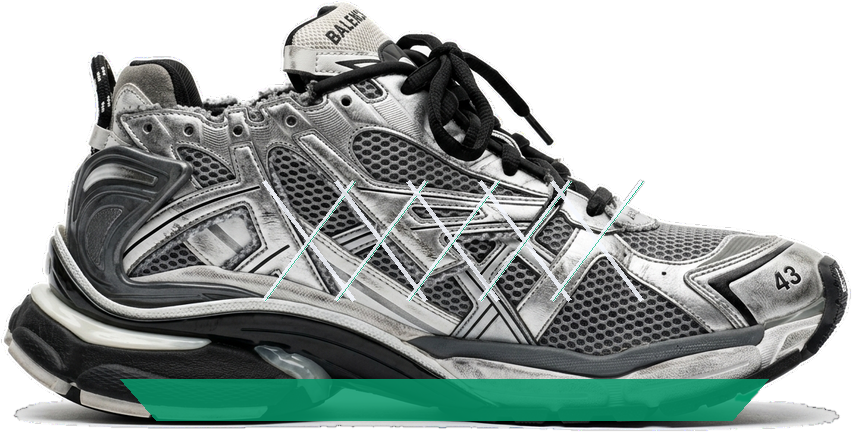
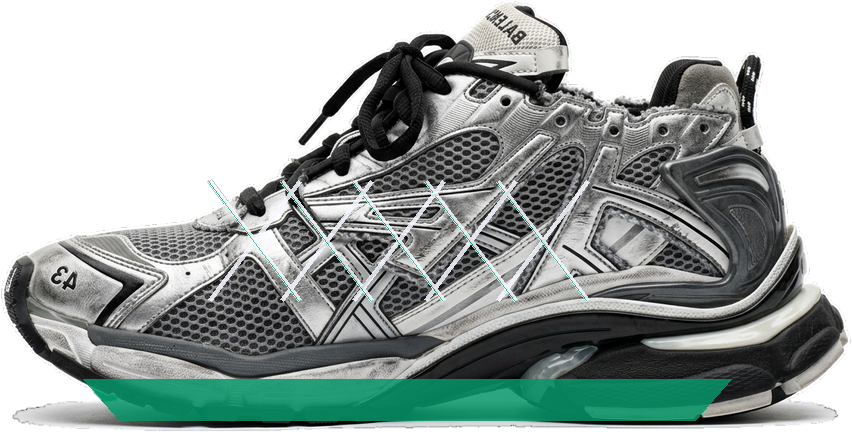
fix(atelier): resolve 360 turntable 180-deg jumping, add dedicated photographic toe & aerial insole renders for all 6 models, and fix ground contact shadow 3D physics

diff --git a/index.html b/index.html
@@ -6565,12 +6565,12 @@
       // Genuine Ultra-High-Resolution Studio Cutout Perspectives
       // ----------------------------------------------------
       const PRELOAD_SNEAKER_ASSETS = [
-        "balenciaga_front3q.png", "balenciaga_heel.png", "balenciaga_profile.png",
-        "bottega_front3q.png", "bottega_heel.png", "bottega_profile.png",
-        "margiela_front3q.png", "margiela_heel.png", "margiela_profile.png",
-        "off_white_front3q.png", "off_white_heel.png", "off_white_profile.png",
+        "balenciaga_front3q.png", "balenciaga_heel.png", "balenciaga_profile.png", "balenciaga_toe.png", "balenciaga_top.png",
+        "bottega_front3q.png", "bottega_heel.png", "bottega_profile.png", "bottega_toe.png", "bottega_top.png",
+        "margiela_front3q.png", "margiela_heel.png", "margiela_profile.png", "margiela_toe.png", "margiela_top.png",
+        "off_white_front3q.png", "off_white_heel.png", "off_white_profile.png", "off_white_toe.png", "off_white_top.png",
         "palm_angels_front3q.png", "palm_angels_heel.png", "palm_angels_profile.png", "palm_angels_toe.png", "palm_angels_top.png",
-        "rick_owens_front3q.png", "rick_owens_heel.png", "rick_owens_profile.png"
+        "rick_owens_front3q.png", "rick_owens_heel.png", "rick_owens_profile.png", "rick_owens_toe.png", "rick_owens_top.png"
       ];
       try {
         PRELOAD_SNEAKER_ASSETS.forEach(imgFile => {
@@ -6587,7 +6587,8 @@
         let angleName = "PROFILE";
 
         if (isAerial) {
-          filename = (sneaker.id === "palm-angels") ? `${pfx}_top.png` : `${pfx}_front3q.png`;
+          // Direct Aerial Insole Perspective
+          filename = `${pfx}_top.png`;
           angleName = "AERIAL LACE";
         } else if (norm >= 235 && norm <= 295) {
           // 270° Direct Heel / Back View (Exact match to reference videoframe_11402.png for Palm Angels)
@@ -6595,7 +6596,7 @@
           angleName = "HEEL ARCHIVE (REF)";
         } else if (norm >= 68 && norm <= 112) {
           // 90° Direct Toe
-          filename = (sneaker.id === "palm-angels") ? `${pfx}_toe.png` : `${pfx}_front3q.png`;
+          filename = `${pfx}_toe.png`;
           angleName = "DIRECT TOE";
         } else if (norm >= 23 && norm <= 67) {
           // 45° 3/4 Front
@@ -6696,8 +6697,18 @@
           renderBox.style.transform = "scale(" + zoomScale + ") rotateY(" + rotY + "deg)";
         }
         if (groundShadow) {
-          const shadowScale = isAerialView ? 1.1 : (0.85 + Math.abs(Math.sin(normAngle * Math.PI / 180)) * 0.25);
-          groundShadow.style.transform = "scale(" + shadowScale + ", " + (0.9 + Math.abs(Math.cos(normAngle * Math.PI / 180)) * 0.2) + ")";
+          if (isAerialView) {
+            groundShadow.style.transform = "scale(1.05, 1.05)";
+            groundShadow.style.opacity = "0.75";
+          } else {
+            const rad = normAngle * Math.PI / 180;
+            const absCos = Math.abs(Math.cos(rad));
+            const absSin = Math.abs(Math.sin(rad));
+            const scaleX = 0.70 + absCos * 0.38;
+            const scaleY = 0.72 + absSin * 0.42;
+            groundShadow.style.transform = "scale(" + scaleX.toFixed(3) + ", " + scaleY.toFixed(3) + ")";
+            groundShadow.style.opacity = (0.78 + absCos * 0.18).toFixed(2);
+          }
         }
 
         if (brandTagEl) brandTagEl.textContent = sneaker.brandTag;

diff --git a/personal_brand_v4.html b/personal_brand_v4.html
@@ -6565,12 +6565,12 @@
       // Genuine Ultra-High-Resolution Studio Cutout Perspectives
       // ----------------------------------------------------
       const PRELOAD_SNEAKER_ASSETS = [
-        "balenciaga_front3q.png", "balenciaga_heel.png", "balenciaga_profile.png",
-        "bottega_front3q.png", "bottega_heel.png", "bottega_profile.png",
-        "margiela_front3q.png", "margiela_heel.png", "margiela_profile.png",
-        "off_white_front3q.png", "off_white_heel.png", "off_white_profile.png",
+        "balenciaga_front3q.png", "balenciaga_heel.png", "balenciaga_profile.png", "balenciaga_toe.png", "balenciaga_top.png",
+        "bottega_front3q.png", "bottega_heel.png", "bottega_profile.png", "bottega_toe.png", "bottega_top.png",
+        "margiela_front3q.png", "margiela_heel.png", "margiela_profile.png", "margiela_toe.png", "margiela_top.png",
+        "off_white_front3q.png", "off_white_heel.png", "off_white_profile.png", "off_white_toe.png", "off_white_top.png",
         "palm_angels_front3q.png", "palm_angels_heel.png", "palm_angels_profile.png", "palm_angels_toe.png", "palm_angels_top.png",
-        "rick_owens_front3q.png", "rick_owens_heel.png", "rick_owens_profile.png"
+        "rick_owens_front3q.png", "rick_owens_heel.png", "rick_owens_profile.png", "rick_owens_toe.png", "rick_owens_top.png"
       ];
       try {
         PRELOAD_SNEAKER_ASSETS.forEach(imgFile => {
@@ -6587,7 +6587,8 @@
         let angleName = "PROFILE";
 
         if (isAerial) {
-          filename = (sneaker.id === "palm-angels") ? `${pfx}_top.png` : `${pfx}_front3q.png`;
+          // Direct Aerial Insole Perspective
+          filename = `${pfx}_top.png`;
           angleName = "AERIAL LACE";
         } else if (norm >= 235 && norm <= 295) {
           // 270° Direct Heel / Back View (Exact match to reference videoframe_11402.png for Palm Angels)
@@ -6595,7 +6596,7 @@
           angleName = "HEEL ARCHIVE (REF)";
         } else if (norm >= 68 && norm <= 112) {
           // 90° Direct Toe
-          filename = (sneaker.id === "palm-angels") ? `${pfx}_toe.png` : `${pfx}_front3q.png`;
+          filename = `${pfx}_toe.png`;
           angleName = "DIRECT TOE";
         } else if (norm >= 23 && norm <= 67) {
           // 45° 3/4 Front
@@ -6696,8 +6697,18 @@
           renderBox.style.transform = "scale(" + zoomScale + ") rotateY(" + rotY + "deg)";
         }
         if (groundShadow) {
-          const shadowScale = isAerialView ? 1.1 : (0.85 + Math.abs(Math.sin(normAngle * Math.PI / 180)) * 0.25);
-          groundShadow.style.transform = "scale(" + shadowScale + ", " + (0.9 + Math.abs(Math.cos(normAngle * Math.PI / 180)) * 0.2) + ")";
+          if (isAerialView) {
+            groundShadow.style.transform = "scale(1.05, 1.05)";
+            groundShadow.style.opacity = "0.75";
+          } else {
+            const rad = normAngle * Math.PI / 180;
+            const absCos = Math.abs(Math.cos(rad));
+            const absSin = Math.abs(Math.sin(rad));
+            const scaleX = 0.70 + absCos * 0.38;
+            const scaleY = 0.72 + absSin * 0.42;
+            groundShadow.style.transform = "scale(" + scaleX.toFixed(3) + ", " + scaleY.toFixed(3) + ")";
+            groundShadow.style.opacity = (0.78 + absCos * 0.18).toFixed(2);
+          }
         }
 
         if (brandTagEl) brandTagEl.textContent = sneaker.brandTag;
